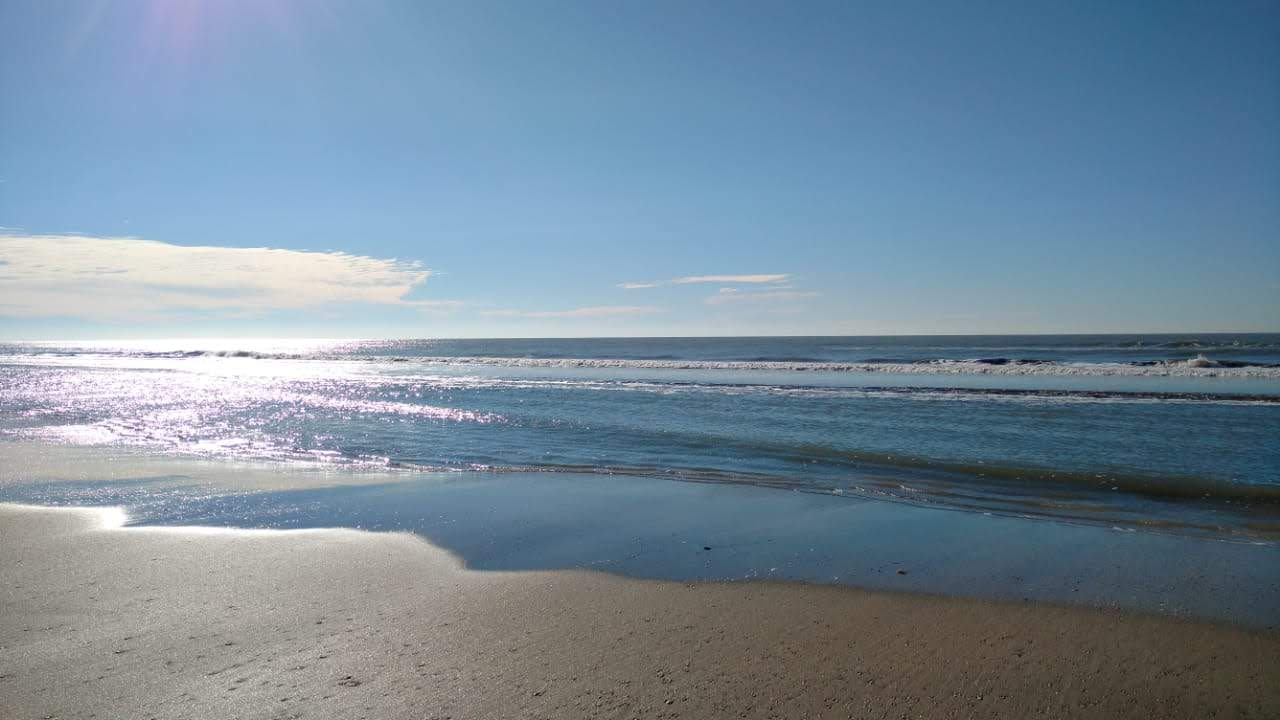
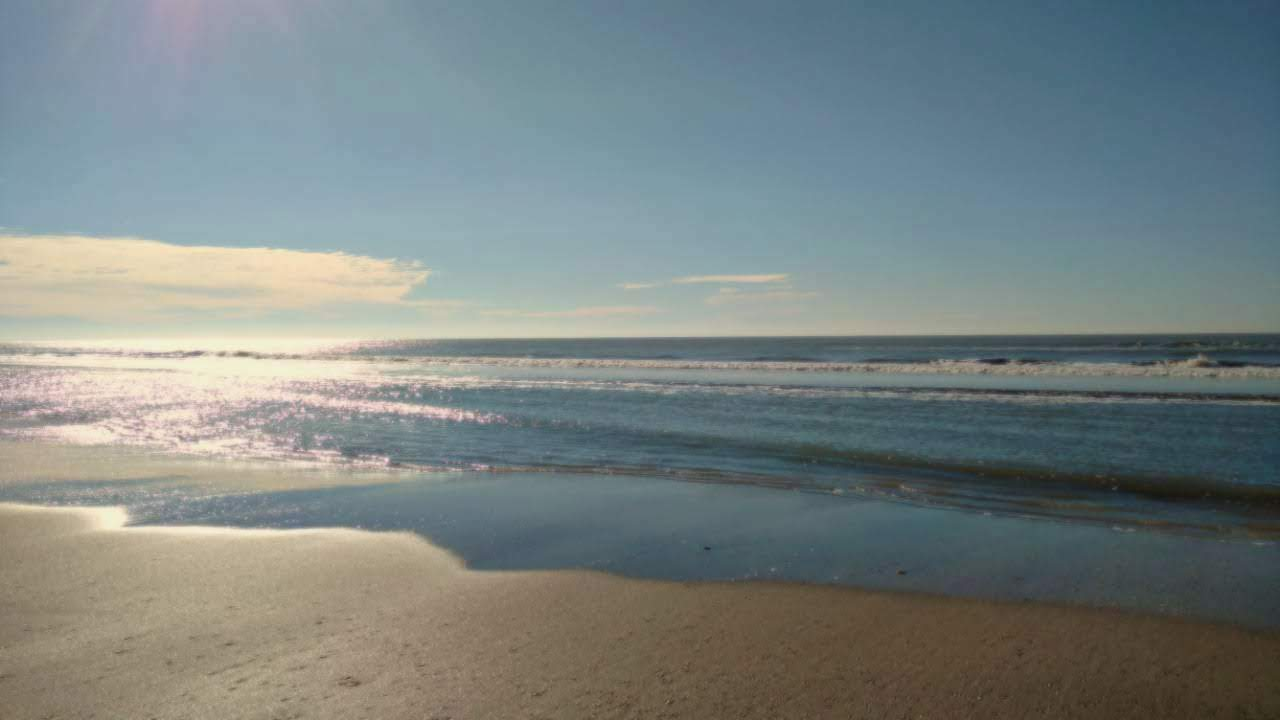
cambio fotos index y contacto

diff --git a/css/style.css b/css/style.css
@@ -56,7 +56,8 @@
 
 .index {
   background: #c5e48cfe;
-  font-family: 'Nunito', sans-serif; }
+  font-family: 'Nunito', sans-serif;
+  color: black; }
   .index__descripcion {
     position: absolute;
     left: 0;
@@ -76,14 +77,13 @@
   .index__cabañas:hover .index__descripcion {
     opacity: 1.5; }
   .index__playa {
-    background-image: url(../Assets/CostaPlaya1.jpg);
+    background-image: url(../Assets/marsolojpg.jpg);
     background-repeat: no-repeat;
     background-position: center center;
     background-attachment: fixed;
     background-size: cover;
-    color: black;
-    font-weight: bolder;
-    font-weight: bold; }
+    color: white;
+    text-shadow: black 6px 4px 6px; }
   .index__cabañas {
     list-style: none;
     padding-top: 1rem;
@@ -100,7 +100,8 @@
     display: block; }
 
 .barra {
-  font-family: 'Nunito', sans-serif; }
+  font-family: 'Nunito', sans-serif;
+  color: black; }
   .barra__logoElComienzo {
     width: 10rem; }
   .barra__link {
@@ -112,7 +113,8 @@
 .adicional {
   padding: 6rem 0;
   background-color: white;
-  font-family: 'Nunito', sans-serif; }
+  font-family: 'Nunito', sans-serif;
+  color: black; }
   .adicional__foto {
     border: #578e3e solid 0.5rem; }
   .adicional__titulo {
@@ -124,6 +126,7 @@
 .grilla {
   background-color: #c5e48cfe;
   font-family: 'Nunito', sans-serif;
+  color: black;
   display: grid;
   grid-template-columns: 50% 50%;
   grid-template-rows: min-content min-content;
@@ -138,8 +141,13 @@
     padding-right: 1rem; }
 
 .contacto {
-  background-color: #c5e48cfe;
-  font-family: 'Nunito', sans-serif; }
+  background-image: url(../Assets/plantascostas.jpg);
+  background-repeat: no-repeat;
+  background-position: center center;
+  background-attachment: fixed;
+  background-size: cover;
+  font-family: 'Nunito', sans-serif;
+  color: black; }
   .contacto__itemFormulario {
     margin: 0.4rem 2rem 0.4rem 2rem;
     background-color: #94c080;
@@ -161,7 +169,9 @@
     margin-top: 2rem;
     margin-bottom: 2rem; }
   .contacto__infoDeContacto {
-    margin-bottom: 4rem; }
+    color: black;
+    padding-top: 2rem;
+    text-decoration: underline; }
 
 .cabaña {
   font-size: 16px;
@@ -180,12 +190,12 @@
 
 .cabañas {
   background-color: #c5e48cfe;
-  font-family: 'Nunito', sans-serif; }
+  font-family: 'Nunito', sans-serif;
+  color: black; }
   .cabañas__titulo {
     color: black;
     font-weight: bolder;
     font-weight: bold;
-    padding-left: 38rem;
     padding-top: 2rem;
     text-decoration: underline; }
   .cabañas__nav {
@@ -208,7 +218,11 @@
   color: black;
   font-weight: bolder;
   font-weight: bold;
-  padding-bottom: 10rem; }
+  padding-bottom: 10rem;
+  color: black;
+  font-family: 'Nunito', sans-serif; }
+  .ubicacion__texto {
+    margin-top: 1rem; }
   .ubicacion__mapaCabañas {
     width: 40rem;
     height: 30rem;
@@ -223,7 +237,8 @@
     border-radius: 1rem; }
 
 .servicios {
-  font-family: 'Nunito', sans-serif; }
+  font-family: 'Nunito', sans-serif;
+  color: black; }
   .servicios__fotoHamacas, .servicios__fotoParrilla {
     position: relative;
     top: 2rem;
@@ -320,15 +335,11 @@
     margin: 1rem auto 1rem auto; }
   .adicional__parrafo {
     width: 80%;
-    margin: 1rem auto 1rem auto; }
-  .servicios__container {
-    display: flex;
-    flex-direction: column; }
-  .ubicacion__mapaCabañas {
-    width: 20rem;
-    height: 15rem; }
-  .ubicacion_mapa:hover {
-    display: none; } }
+    margin: 1rem auto 1rem auto; } }
+
+.servicios__container {
+  display: flex;
+  flex-direction: column; }
 
 /* Medium*/
 @media screen and (min-width: 768px) {

diff --git a/Vistas/cabana3.html b/Vistas/cabana3.html
@@ -41,9 +41,9 @@
           </nav>
     </header>
     <main class="cabañas">
-        <h3 class="cabañas__titulo">Nuestras cabañas</h3>
+        <h3 class="cabañas__titulo d-flex justify-content-center">Nuestras cabañas</h3>
         <div>
-            <ul class="nav justify-content-center cabañas__nav"> 
+            <ul class="nav d-flex justify-content-center cabañas__nav"> 
               <li class="nav-item cabañas__item"><a class="nav-link active cabañas__link" aria-current="page" href="./cabanas.html">Cabaña 1</a></li>
               <li class="nav-item cabañas__item"><a class="nav-link active cabañas__link" aria-current="page" href="./cabana2.html">Cabaña 2</a></li>
               <li class="nav-item cabañas__item"><a class="nav-link active cabañas__link" aria-current="page" href="./cabana3.html">Cabaña 3</a></li>
@@ -71,7 +71,7 @@
                 <img src="../Assets/dormitoriodeabajocab32.jpeg" class=" d-block w-100 grilla__foto" alt="dormitorio abajo">
               </div>
               <div class="carousel-item grilla__item">
-                <img src="../Assets/bañoarribacab3.jpeg" class=" d-block w-100 grilla__foto" alt="baño">
+                <img src="../Assets/Bano3copia.jpeg" class=" d-block w-100 grilla__foto" alt="baño">
               </div>
               <div class="carousel-item grilla__item">
                 <img src="../Assets/matrimonialcab3.jpeg" class=" d-block w-100 grilla__foto" alt="matrimonial">

diff --git a/index.html b/index.html
@@ -86,8 +86,8 @@
   <!-- Pie de pagina -->
   <footer class="direccion" >
       <div class="direccion__texto d-flex justify-content-center flex-column align-items-center">
-          <p> Dirección de Cabañas El Comienzo: Las Camelias 263 entre AV 3 y AV 4</p>
-          <p>Teléfono de contacto: 1144472971 (Buenos Aires, Argentina)</p>
+          <p class="direccion__parrafo"> Dirección de Cabañas El Comienzo: Las Camelias 263 entre AV 3 y AV 4</p>
+          <p class="direccion__parrafo">Teléfono de contacto: 1144472971 (Buenos Aires, Argentina)</p>
       </div>
       <div class="direccion__socialMedia d-flex align-items-center justify-content-center">
           <a href="https://www.instagram.com/comienzo_momentos_costadeleste/"><img class="direccion__instagram m-1 " src="./Assets/Instagram.png" alt="instagram"></a>

diff --git a/sass/parciales/_index.scss b/sass/parciales/_index.scss
@@ -1,6 +1,7 @@
 .index {
     background: map-get($colores, greenbackground);
     font-family:'Nunito', sans-serif;
+    color: map-get($colores, color);
       &__descripcion {
         position: absolute;
         left: 0;
@@ -20,13 +21,14 @@
         opacity: 1.5;
       }
       &__playa {
-        background-image: url(../Assets/CostaPlaya1.jpg);
+        background-image: url(../Assets/marsolojpg.jpg);
         background-repeat: no-repeat;
         background-position: center center;
         background-attachment: fixed;
         background-size: cover;
         font-size: map-get($fuente , medium );
-        @include link (bolder,map-get($colores,color));
+        color: white;
+        text-shadow: black 6px 4px 6px;
         }
       &__cabañas {
         list-style: none;

diff --git a/sass/parciales/_contacto.scss b/sass/parciales/_contacto.scss
@@ -1,6 +1,11 @@
 .contacto {
-    background-color: map-get($colores, greenbackground );
+    background-image:url(../Assets/plantascostas.jpg);
+    background-repeat: no-repeat;
+    background-position: center center;
+    background-attachment: fixed;
+    background-size: cover;
     font-family:'Nunito', sans-serif;
+    color: map-get($colores, color );
     &__itemFormulario {
         margin: 0.4rem 2rem 0.4rem 2rem;
         background-color: map-get($colores,formulariobackground );
@@ -26,7 +31,9 @@
         margin-bottom: 2rem;
       }
       &__infoDeContacto {
-        margin-bottom: 4rem;
+        color: map-get($colores, color );
+        padding-top: 2rem;
+        text-decoration: underline;
       }
   }
   

diff --git a/sass/parciales/_responsive.scss b/sass/parciales/_responsive.scss
@@ -56,7 +56,7 @@
     .cabaña{
       margin-left: 1rem;
     }
-     }
+    }
   
   /* Medium*/
   @media screen and (max-width: 768px) {
@@ -91,23 +91,13 @@
           }
 
     }
+  }
     .servicios{
         &__container {
             display: flex;
             flex-direction:column;
           }
      }
-    .ubicacion{
-        &__mapaCabañas{
-            width: 20rem;
-            height:15rem; }
-          
-        &_mapa:hover {
-              display: none;
-            }
-        }
-    }
-  
   /* Medium*/
   @media screen and (min-width: 768px) {
     .index{
@@ -126,4 +116,4 @@
             margin-right: 2rem;
           }
         }
-    }
+  }

diff --git a/Vistas/contacto.html b/Vistas/contacto.html
@@ -41,8 +41,8 @@
           </nav>
     </header>
         <main class="contacto d-flex flex-column justify-content-center align-items-center">
+          <h3 class="contacto__infoDeContacto d-flex justify-content-center"">Información de contacto</h3>
             <section class="contacto__formulario">
-                <h5 class="contacto__infoDeContacto">Información de contacto</h5>
                 <form action="" method="get" enctype="text/plain">
                         <div>
                             <label for="Name">Nombre completo</label>

diff --git a/Vistas/cabanas.html b/Vistas/cabanas.html
@@ -41,7 +41,7 @@
           </nav>
     </header>
         <main class="cabañas">
-            <h3 class="cabañas__titulo">Nuestras cabañas</h3>
+            <h3 class="cabañas__titulo  d-flex justify-content-center">Nuestras cabañas</h3>
             <div>
                 <ul class="nav justify-content-center cabañas__nav"> 
                   <li class="nav-item cabañas__item"><a class="cabañas__link nav-link active" aria-current="page" href="./cabanas.html">Cabaña 1</a></li>

diff --git a/Vistas/cabana2.html b/Vistas/cabana2.html
@@ -41,7 +41,7 @@
           </nav>
     </header>
     <main class="cabañas">
-        <h3 class="cabañas__titulo">Nuestras cabañas</h3>
+        <h3 class="cabañas__titulo  d-flex justify-content-center">Nuestras cabañas</h3>
         <div>
             <ul class="nav justify-content-center cabañas__nav"> 
               <li class="nav-item cabañas__item"><a class="nav-link active cabañas__link" aria-current="page" href="./cabanas.html">Cabaña 1</a></li>

diff --git a/sass/parciales/_ubicacion.scss b/sass/parciales/_ubicacion.scss
@@ -7,6 +7,11 @@
     font-size: map-get($fuente, mediano );
     @include link ( bold,map-get($colores,color));
     padding-bottom: 10rem;
+    color: map-get($colores, color );
+    font-family:'Nunito', sans-serif;
+&__texto{
+    margin-top: 1rem;
+}
 &__mapaCabañas {
         width: 40rem;
         height:30rem;

diff --git a/sass/parciales/_cabañas.scss b/sass/parciales/_cabañas.scss
@@ -1,9 +1,9 @@
 .cabañas{
     background-color: map-get($colores,greenbackground);
     font-family:'Nunito', sans-serif;
+    color: map-get($colores, color );
 &__titulo{
   @include link (bolder,map-get($colores,color));
-  padding-left: 38rem;
   padding-top: 2rem;
   text-decoration: underline;
 }

diff --git a/sass/parciales/_grilla.scss b/sass/parciales/_grilla.scss
@@ -1,6 +1,7 @@
 .grilla {
     background-color: map-get($colores, greenbackground );
     font-family:'Nunito', sans-serif;
+    color: map-get($colores, color);
     display: grid;
     grid-template-columns: 50% 50%;
     grid-template-rows: min-content min-content;
